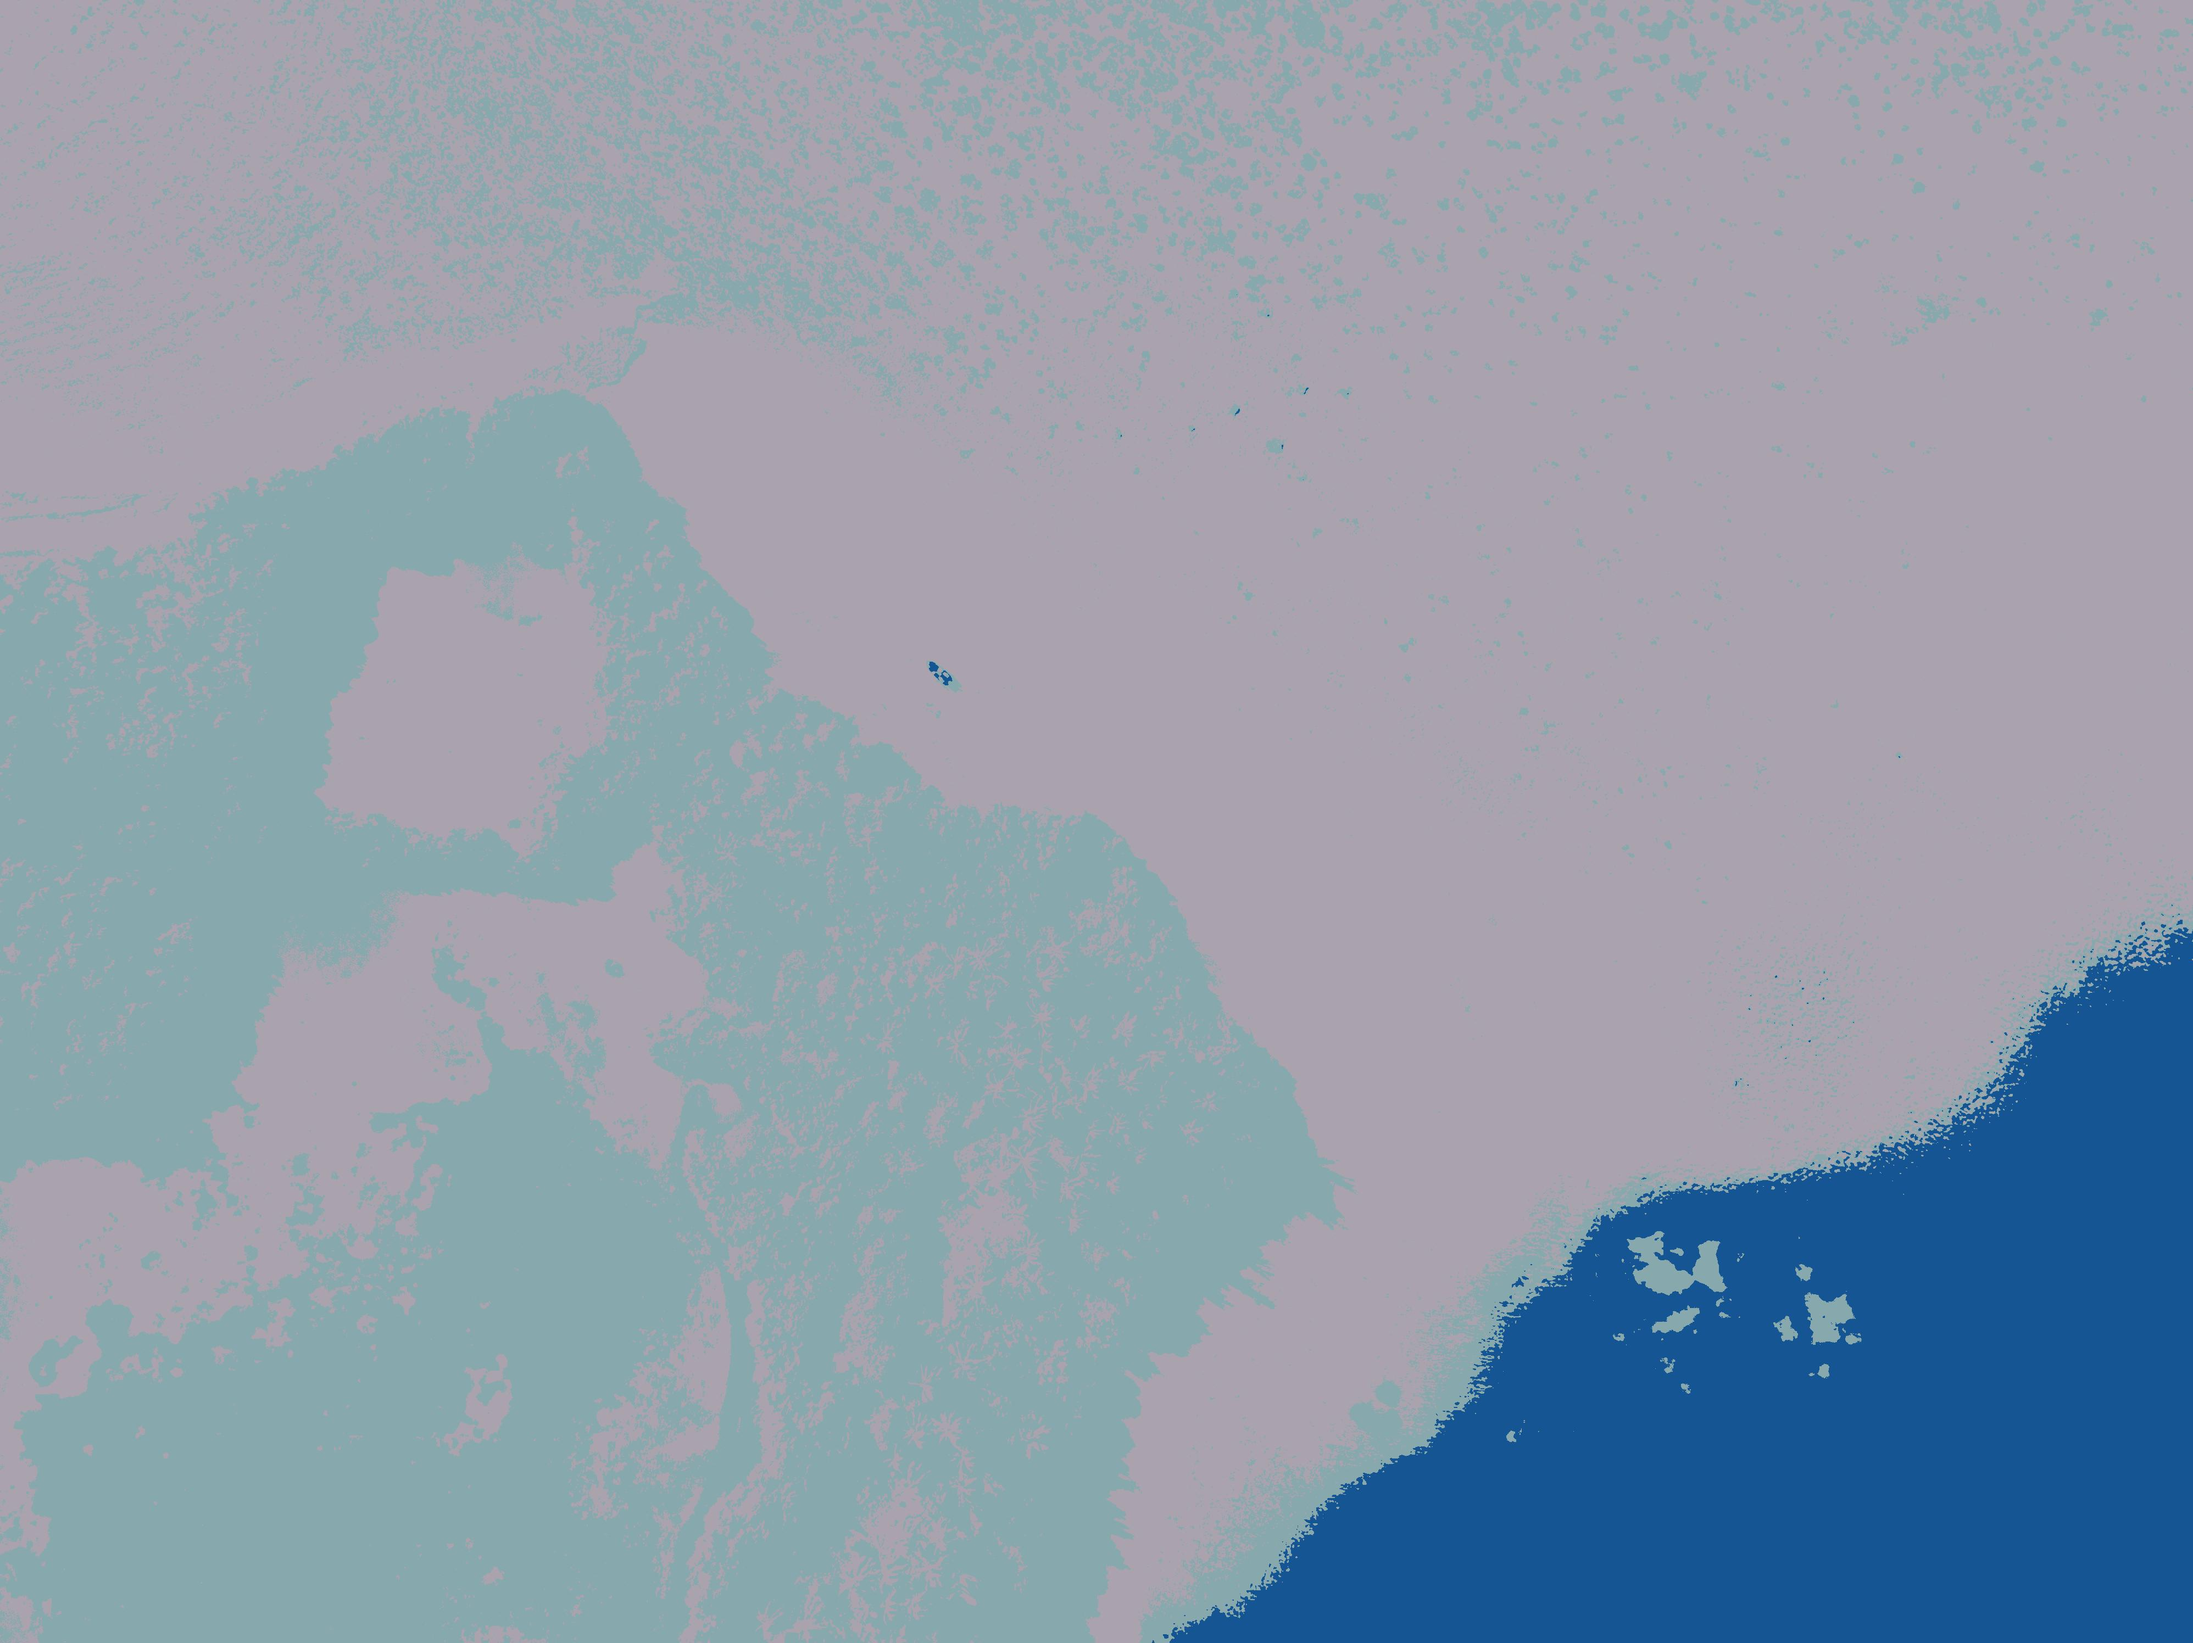
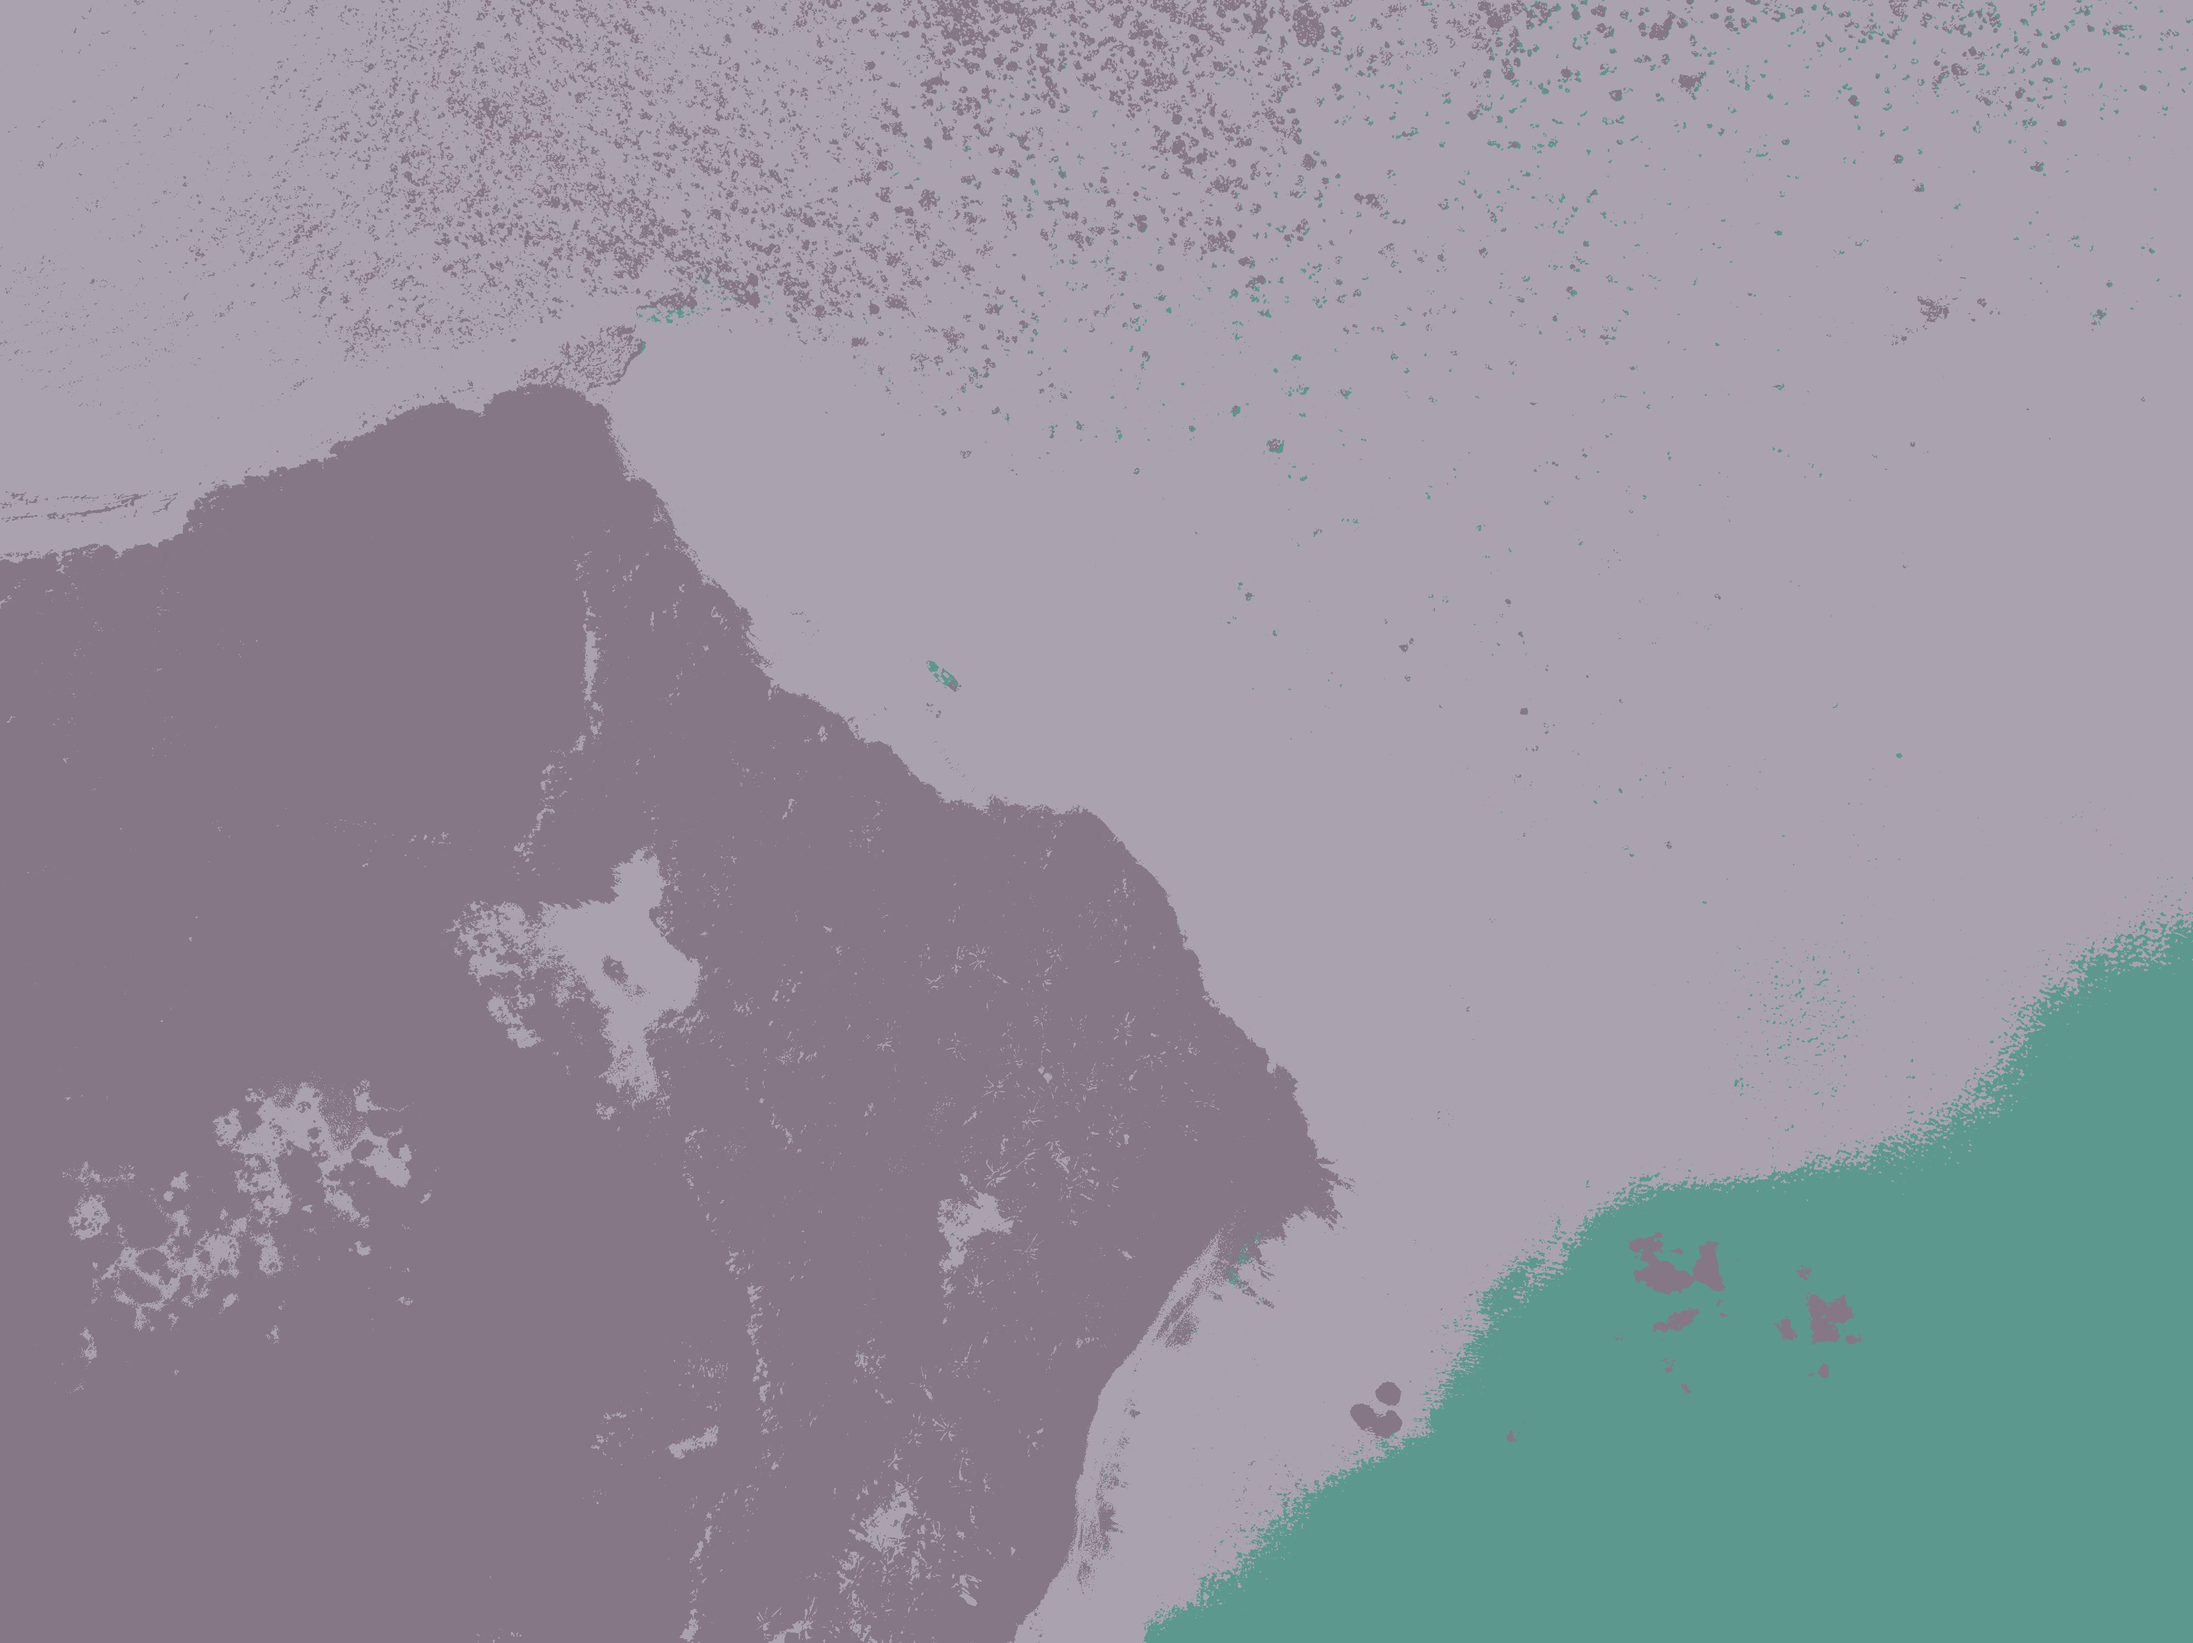
centroid check with k means

diff --git a/src/imagePackage/Segmenter.java b/src/imagePackage/Segmenter.java
@@ -25,6 +25,8 @@ public class Segmenter
 
     int [][] pixels;
 
+    double eps = 0.1;
+
 
     public void initialize()
     {
@@ -66,11 +68,6 @@ public class Segmenter
         distances = new double[k];
         clusters = new ArrayList[k];
 
-        for(int i=0;i<k;i++)
-        {
-            clusters[i] = new ArrayList<>();
-        }
-
         Random rand = new Random();
 
         for(int i=0;i<k;i++)
@@ -78,44 +75,63 @@ public class Segmenter
             centroids[i] = new Color(rand.nextInt(256),rand.nextInt(256),rand.nextInt(256));
         }
 
-        for(int i=0;i<image.getWidth();i++)
+        do
         {
-            for(int j=0;j<image.getHeight();j++)
+            for(int i=0;i<k;i++)
             {
-                Color currentColor = new Color(image.getRGB(i,j));
+                clusters[i] = new ArrayList<>();
+            }
 
-                for(int z=0;z<k;z++)
+            for(int i=0;i<image.getWidth();i++)
+            {
+                for(int j=0;j<image.getHeight();j++)
                 {
-                    distances[z] = Math.sqrt(Math.pow(currentColor.getRed()-centroids[z].getRed(),2)+
-                            Math.pow(currentColor.getGreen()-centroids[z].getGreen(),2)+
-                            Math.pow(currentColor.getBlue()-centroids[z].getBlue(),2));
+                    Color currentColor = new Color(image.getRGB(i,j));
+
+                    for(int z=0;z<k;z++)
+                    {
+                        distances[z] = Math.sqrt(Math.pow(currentColor.getRed()-centroids[z].getRed(),2)+
+                                Math.pow(currentColor.getGreen()-centroids[z].getGreen(),2)+
+                                Math.pow(currentColor.getBlue()-centroids[z].getBlue(),2));
+                    }
+
+                    int index = min(distances);
+
+                    clusters[index].add(currentColor);
+
+                    pixels[i][j] = index;
+                }
+            }
+
+            Color prevCentroid = centroids[0];
+
+
+            for(int i=0;i<k;i++)
+            {
+
+                double rSum = 0;
+                double gSum = 0;
+                double bSum = 0;
+
+                for(Color c:clusters[i])
+                {
+                    rSum+=c.getRed();
+                    gSum+=c.getGreen();
+                    bSum+=c.getBlue();
                 }
 
-                int index = min(distances);
-
-                clusters[index].add(currentColor);
-
-                pixels[i][j] = index;
+                centroids[i] = new Color((int)rSum/clusters[i].size(),(int)gSum/clusters[i].size(),(int)bSum/clusters[i].size());
             }
-        }
 
-
-        for(int i=0;i<k;i++)
-        {
-
-            double rSum = 0;
-            double gSum = 0;
-            double bSum = 0;
-
-            for(Color c:clusters[i])
+            if(Math.sqrt(Math.pow(prevCentroid.getRed()-centroids[0].getRed(),2)+
+                    Math.pow(prevCentroid.getGreen()-centroids[0].getGreen(),2)+
+                    Math.pow(prevCentroid.getBlue()-centroids[0].getBlue(),2))<eps)
             {
-                rSum+=c.getRed();
-                gSum+=c.getGreen();
-                bSum+=c.getBlue();
+                break;
             }
+        }while(true);
 
-            centroids[i] = new Color((int)rSum/clusters[i].size(),(int)gSum/clusters[i].size(),(int)bSum/clusters[i].size());
-        }
+
 
         for(int i=0;i<image.getWidth();i++)
         {
